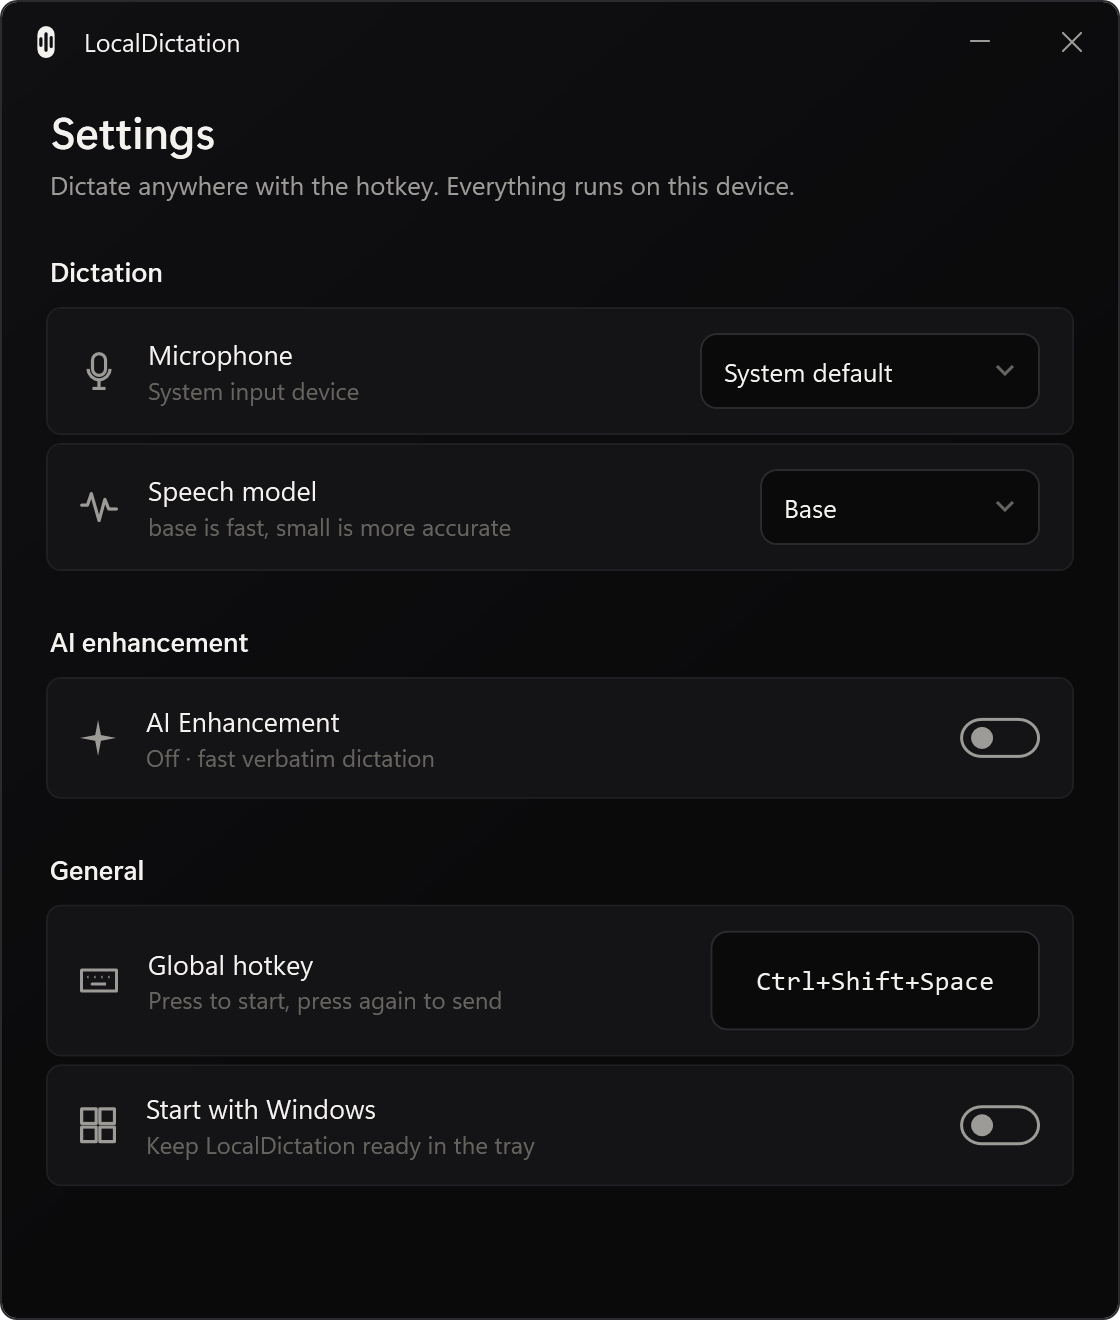
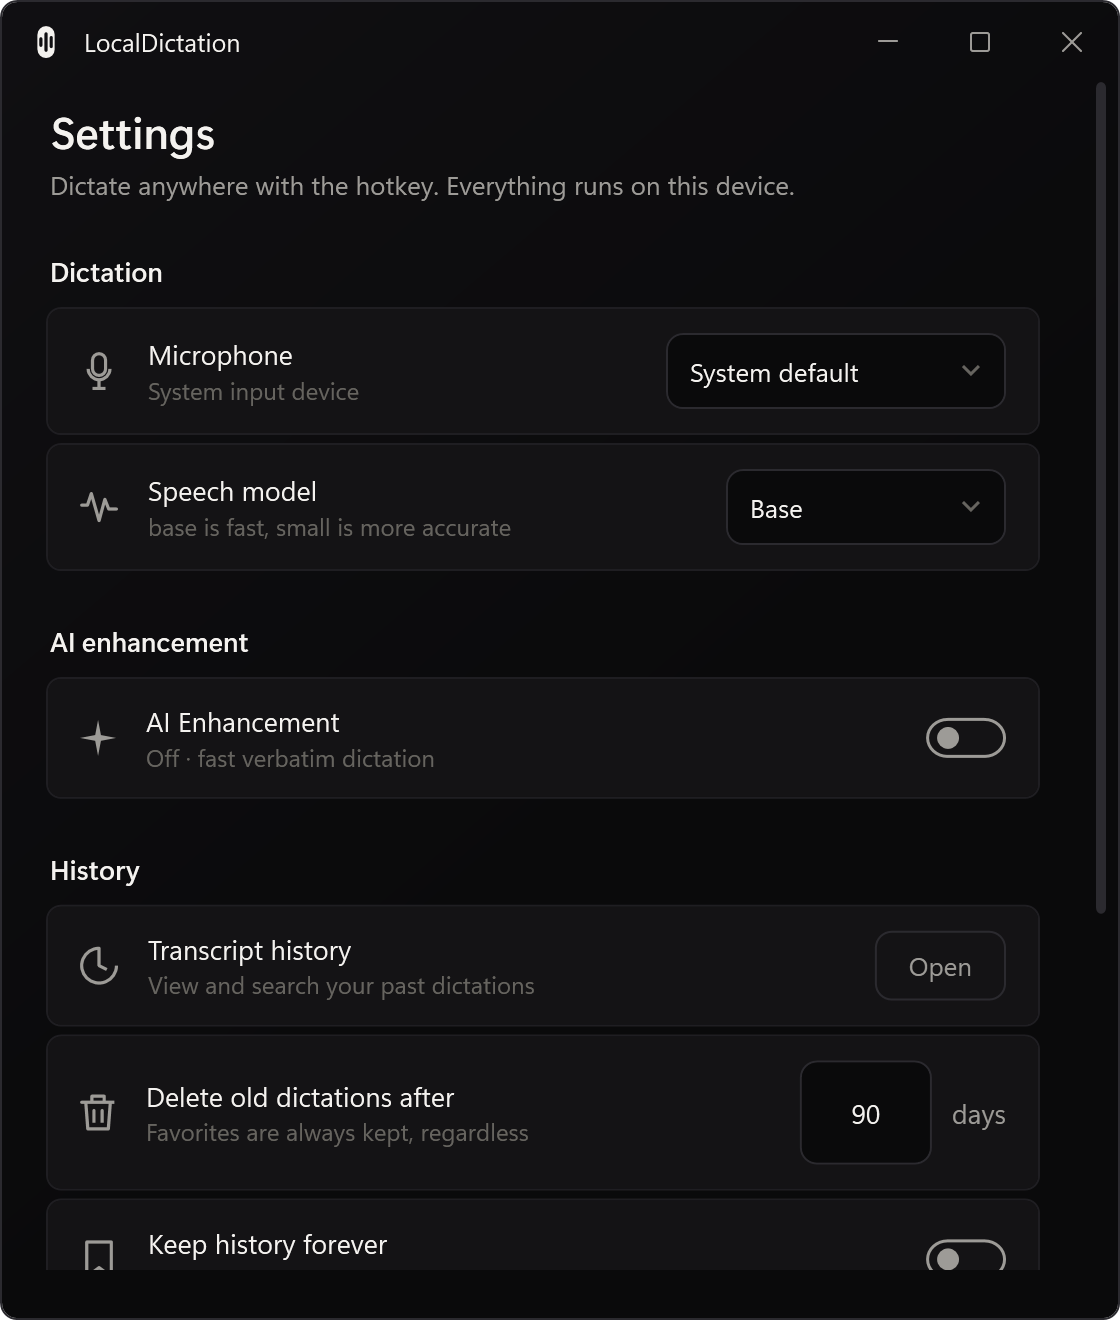
Add window maximize/restore, Open History shortcut, and fix history button spacing
Add a maximize/restore caption button (and double-click-title-bar) to the control panel and
history windows; it fills the working area without covering the taskbar. Add an "Open" button
in a new History settings section that opens the history window. Space out the star / Copy / ✕
action buttons in history rows so they no longer crowd together. Re-show hidden singleton
windows correctly and restore them from minimized. Refresh the README tool screenshots.

diff --git a/src/LocalDictation.Desktop/Views/ControlPanelWindow.xaml b/src/LocalDictation.Desktop/Views/ControlPanelWindow.xaml
@@ -27,6 +27,7 @@
                 </StackPanel>
                 <StackPanel Orientation="Horizontal" HorizontalAlignment="Right" VerticalAlignment="Top">
                     <Button Style="{StaticResource CaptionButton}" Content="&#xE921;" Click="OnMinimize" ToolTip="Minimize"/>
+                    <Button x:Name="MaxButton" Style="{StaticResource CaptionButton}" Content="&#xE922;" Click="OnMaximize" ToolTip="Maximize"/>
                     <Button Style="{StaticResource CloseCaptionButton}" Content="&#xE8BB;" Click="OnClose" ToolTip="Close"/>
                 </StackPanel>
             </Grid>
@@ -102,6 +103,56 @@
                         </StackPanel>
                     </Border>
 
+                    <!-- ===== History ===== -->
+                    <TextBlock Text="History" Style="{StaticResource GroupHeader}"/>
+
+                    <Border Style="{StaticResource Win11Card}">
+                        <Grid>
+                            <Grid.ColumnDefinitions><ColumnDefinition Width="Auto"/><ColumnDefinition Width="*"/><ColumnDefinition Width="Auto"/></Grid.ColumnDefinitions>
+                            <Path Grid.Column="0" Width="19" Height="19" Stretch="Uniform" VerticalAlignment="Center"
+                                  Stroke="{StaticResource CardIconBrush}" StrokeThickness="1.6" StrokeLineJoin="Round" StrokeStartLineCap="Round"
+                                  Data="M12,3 A9,9 0 1 0 21,12 M12,3 L12,7 M12,7 L12,12 L16,14"/>
+                            <StackPanel Grid.Column="1" Margin="15,0,12,0" VerticalAlignment="Center">
+                                <TextBlock Text="Transcript history" Style="{StaticResource CardTitle}"/>
+                                <TextBlock Text="View and search your past dictations" Style="{StaticResource CardDesc}"/>
+                            </StackPanel>
+                            <Button Grid.Column="2" Content="Open" Style="{StaticResource GhostButton}" Padding="16,6" Click="OnOpenHistory"/>
+                        </Grid>
+                    </Border>
+
+                    <Border Style="{StaticResource Win11Card}">
+                        <Grid>
+                            <Grid.ColumnDefinitions><ColumnDefinition Width="Auto"/><ColumnDefinition Width="*"/><ColumnDefinition Width="Auto"/></Grid.ColumnDefinitions>
+                            <Path Grid.Column="0" Width="18" Height="18" Stretch="Uniform" VerticalAlignment="Center"
+                                  Stroke="{StaticResource CardIconBrush}" StrokeThickness="1.6" StrokeLineJoin="Round" StrokeStartLineCap="Round"
+                                  Data="M4,7 L20,7 M9,7 L9,4 L15,4 L15,7 M6,7 L7,20 L17,20 L18,7 M10,11 L10,17 M14,11 L14,17"/>
+                            <StackPanel Grid.Column="1" Margin="15,0,12,0" VerticalAlignment="Center">
+                                <TextBlock Text="Delete old dictations after" Style="{StaticResource CardTitle}"/>
+                                <TextBlock Text="Favorites are always kept, regardless" Style="{StaticResource CardDesc}"/>
+                            </StackPanel>
+                            <StackPanel Grid.Column="2" Orientation="Horizontal" VerticalAlignment="Center">
+                                <TextBox Style="{StaticResource TextBoxStyle}" Width="66" TextAlignment="Center"
+                                         IsEnabled="{Binding RetentionEnabled}"
+                                         Text="{Binding RetentionDays, UpdateSourceTrigger=LostFocus}"/>
+                                <TextBlock Text="days" Style="{StaticResource Body}" Margin="10,0,0,0" VerticalAlignment="Center"/>
+                            </StackPanel>
+                        </Grid>
+                    </Border>
+
+                    <Border Style="{StaticResource Win11Card}">
+                        <Grid>
+                            <Grid.ColumnDefinitions><ColumnDefinition Width="Auto"/><ColumnDefinition Width="*"/><ColumnDefinition Width="Auto"/></Grid.ColumnDefinitions>
+                            <Path Grid.Column="0" Width="19" Height="19" Stretch="Uniform" VerticalAlignment="Center"
+                                  Stroke="{StaticResource CardIconBrush}" StrokeThickness="1.6" StrokeLineJoin="Round"
+                                  Data="M6,4 L18,4 L18,21 L12,16.5 L6,21 Z"/>
+                            <StackPanel Grid.Column="1" Margin="15,0,12,0" VerticalAlignment="Center">
+                                <TextBlock Text="Keep history forever" Style="{StaticResource CardTitle}"/>
+                                <TextBlock Text="Never auto-delete anything" Style="{StaticResource CardDesc}"/>
+                            </StackPanel>
+                            <CheckBox Grid.Column="2" Style="{StaticResource Switch}" VerticalAlignment="Center" IsChecked="{Binding KeepHistoryForever}"/>
+                        </Grid>
+                    </Border>
+
                     <!-- ===== General ===== -->
                     <TextBlock Text="General" Style="{StaticResource GroupHeader}"/>
 
@@ -131,6 +182,20 @@
                                 <TextBlock Text="Keep LocalDictation ready in the tray" Style="{StaticResource CardDesc}"/>
                             </StackPanel>
                             <CheckBox Grid.Column="2" Style="{StaticResource Switch}" VerticalAlignment="Center" IsChecked="{Binding StartWithWindows}"/>
+                        </Grid>
+                    </Border>
+
+                    <Border Style="{StaticResource Win11Card}">
+                        <Grid>
+                            <Grid.ColumnDefinitions><ColumnDefinition Width="Auto"/><ColumnDefinition Width="*"/><ColumnDefinition Width="Auto"/></Grid.ColumnDefinitions>
+                            <Path Grid.Column="0" Width="19" Height="19" Stretch="Uniform" VerticalAlignment="Center"
+                                  Stroke="{StaticResource CardIconBrush}" StrokeThickness="1.6" StrokeLineJoin="Round" StrokeStartLineCap="Round"
+                                  Data="M12,3 A5,5 0 0 1 17,8 L17,13 L19,16 L5,16 L7,13 L7,8 A5,5 0 0 1 12,3 Z M10,19 A2,2 0 0 0 14,19"/>
+                            <StackPanel Grid.Column="1" Margin="15,0,12,0" VerticalAlignment="Center">
+                                <TextBlock Text="Notify after each dictation" Style="{StaticResource CardTitle}"/>
+                                <TextBlock Text="Show a toast with the transcript when it's done" Style="{StaticResource CardDesc}"/>
+                            </StackPanel>
+                            <CheckBox Grid.Column="2" Style="{StaticResource Switch}" VerticalAlignment="Center" IsChecked="{Binding NotifyOnComplete}"/>
                         </Grid>
                     </Border>
 

diff --git a/src/LocalDictation.Desktop/Views/HistoryWindow.xaml b/src/LocalDictation.Desktop/Views/HistoryWindow.xaml
@@ -28,6 +28,7 @@
                 </StackPanel>
                 <StackPanel Orientation="Horizontal" HorizontalAlignment="Right" VerticalAlignment="Top">
                     <Button Style="{StaticResource CaptionButton}" Content="&#xE921;" Click="OnMinimize" ToolTip="Minimize"/>
+                    <Button x:Name="MaxButton" Style="{StaticResource CaptionButton}" Content="&#xE922;" Click="OnMaximize" ToolTip="Maximize"/>
                     <Button Style="{StaticResource CloseCaptionButton}" Content="&#xE8BB;" Click="OnClose" ToolTip="Close"/>
                 </StackPanel>
             </Grid>
@@ -107,7 +108,7 @@
                                                    Foreground="{StaticResource TextFaintBrush}"/>
                                     </StackPanel>
                                     <StackPanel Orientation="Horizontal" HorizontalAlignment="Right">
-                                        <Button Content="★" Padding="7,2" BorderThickness="0"
+                                        <Button Content="★" Padding="8,2" MinWidth="30" Margin="0,0,6,0" BorderThickness="0"
                                                 Command="{Binding DataContext.ToggleFavoriteCommand, RelativeSource={RelativeSource AncestorType=ListBox}}" CommandParameter="{Binding}">
                                             <Button.Style>
                                                 <Style TargetType="Button" BasedOn="{StaticResource GhostButton}">
@@ -120,9 +121,9 @@
                                                 </Style>
                                             </Button.Style>
                                         </Button>
-                                        <Button Content="Copy" Style="{StaticResource GhostButton}" Padding="10,2" FontSize="12"
+                                        <Button Content="Copy" Style="{StaticResource GhostButton}" Padding="12,2" FontSize="12" Margin="0,0,6,0"
                                                 Command="{Binding DataContext.CopyCommand, RelativeSource={RelativeSource AncestorType=ListBox}}" CommandParameter="{Binding}"/>
-                                        <Button Content="✕" Style="{StaticResource GhostButton}" Padding="7,2" BorderThickness="0"
+                                        <Button Content="✕" Style="{StaticResource GhostButton}" Padding="8,2" MinWidth="30" BorderThickness="0"
                                                 Command="{Binding DataContext.DeleteCommand, RelativeSource={RelativeSource AncestorType=ListBox}}" CommandParameter="{Binding}"/>
                                     </StackPanel>
                                 </Grid>

diff --git a/src/LocalDictation.Desktop/Views/ControlPanelWindow.xaml.cs b/src/LocalDictation.Desktop/Views/ControlPanelWindow.xaml.cs
@@ -1,3 +1,4 @@
+using System;
 using System.Windows;
 using System.Windows.Input;
 using LocalDictation.Desktop.ViewModels;
@@ -7,6 +8,16 @@ namespace LocalDictation.Desktop.Views;
 /// <summary>The control panel window; DataContext is a <see cref="ControlPanelViewModel"/> from DI.</summary>
 public partial class ControlPanelWindow : Window
 {
+    // Segoe Fluent Icons glyphs (built from code points so the source stays ASCII-clean).
+    private static readonly string MaximizeGlyph = ((char)0xE922).ToString();
+    private static readonly string RestoreGlyph = ((char)0xE923).ToString();
+
+    private Rect _restoreBounds;
+    private bool _maximized;
+
+    /// <summary>Raised when the user asks to open the history window (the "Open" button in the History card).</summary>
+    public event EventHandler? OpenHistoryRequested;
+
     /// <summary>Creates the window and binds the view model.</summary>
     public ControlPanelWindow(ControlPanelViewModel vm)
     {
@@ -16,10 +27,42 @@ public partial class ControlPanelWindow : Window
 
     private void OnDrag(object sender, MouseButtonEventArgs e)
     {
-        if (e.ButtonState == MouseButtonState.Pressed) DragMove();
+        if (e.ButtonState != MouseButtonState.Pressed) return;
+        if (e.ClickCount == 2) { ToggleMaximize(); return; } // double-click title bar = maximize/restore
+        DragMove();
     }
 
     private void OnMinimize(object sender, RoutedEventArgs e) => WindowState = WindowState.Minimized;
 
+    private void OnMaximize(object sender, RoutedEventArgs e) => ToggleMaximize();
+
     private void OnClose(object sender, RoutedEventArgs e) => Hide();
+
+    private void OnOpenHistory(object sender, RoutedEventArgs e) => OpenHistoryRequested?.Invoke(this, EventArgs.Empty);
+
+    /// <summary>
+    /// Toggles between the default size and filling the working area. Uses manual work-area bounds
+    /// rather than <see cref="WindowState.Maximized"/> so a borderless, transparent window doesn't
+    /// cover the taskbar or clip its rounded corners.
+    /// </summary>
+    private void ToggleMaximize()
+    {
+        if (!_maximized)
+        {
+            _restoreBounds = new Rect(Left, Top, Width, Height);
+            var wa = SystemParameters.WorkArea;
+            Left = wa.Left; Top = wa.Top; Width = wa.Width; Height = wa.Height;
+            _maximized = true;
+            MaxButton.Content = RestoreGlyph;
+            MaxButton.ToolTip = "Restore";
+        }
+        else
+        {
+            Left = _restoreBounds.Left; Top = _restoreBounds.Top;
+            Width = _restoreBounds.Width; Height = _restoreBounds.Height;
+            _maximized = false;
+            MaxButton.Content = MaximizeGlyph;
+            MaxButton.ToolTip = "Maximize";
+        }
+    }
 }

diff --git a/src/LocalDictation.Desktop/Views/HistoryWindow.xaml.cs b/src/LocalDictation.Desktop/Views/HistoryWindow.xaml.cs
@@ -7,6 +7,13 @@ namespace LocalDictation.Desktop.Views;
 /// <summary>The searchable history window; DataContext is a <see cref="HistoryViewModel"/> from DI.</summary>
 public partial class HistoryWindow : Window
 {
+    // Segoe Fluent Icons glyphs (built from code points so the source stays ASCII-clean).
+    private static readonly string MaximizeGlyph = ((char)0xE922).ToString();
+    private static readonly string RestoreGlyph = ((char)0xE923).ToString();
+
+    private Rect _restoreBounds;
+    private bool _maximized;
+
     /// <summary>Creates the window and binds the view model.</summary>
     public HistoryWindow(HistoryViewModel vm)
     {
@@ -16,10 +23,36 @@ public partial class HistoryWindow : Window
 
     private void OnDrag(object sender, MouseButtonEventArgs e)
     {
-        if (e.ButtonState == MouseButtonState.Pressed) DragMove();
+        if (e.ButtonState != MouseButtonState.Pressed) return;
+        if (e.ClickCount == 2) { ToggleMaximize(); return; } // double-click title bar = maximize/restore
+        DragMove();
     }
 
     private void OnMinimize(object sender, RoutedEventArgs e) => WindowState = WindowState.Minimized;
 
+    private void OnMaximize(object sender, RoutedEventArgs e) => ToggleMaximize();
+
     private void OnClose(object sender, RoutedEventArgs e) => Hide();
+
+    /// <summary>Toggles between the default size and filling the working area (see ControlPanelWindow).</summary>
+    private void ToggleMaximize()
+    {
+        if (!_maximized)
+        {
+            _restoreBounds = new Rect(Left, Top, Width, Height);
+            var wa = SystemParameters.WorkArea;
+            Left = wa.Left; Top = wa.Top; Width = wa.Width; Height = wa.Height;
+            _maximized = true;
+            MaxButton.Content = RestoreGlyph;
+            MaxButton.ToolTip = "Restore";
+        }
+        else
+        {
+            Left = _restoreBounds.Left; Top = _restoreBounds.Top;
+            Width = _restoreBounds.Width; Height = _restoreBounds.Height;
+            _maximized = false;
+            MaxButton.Content = MaximizeGlyph;
+            MaxButton.ToolTip = "Maximize";
+        }
+    }
 }